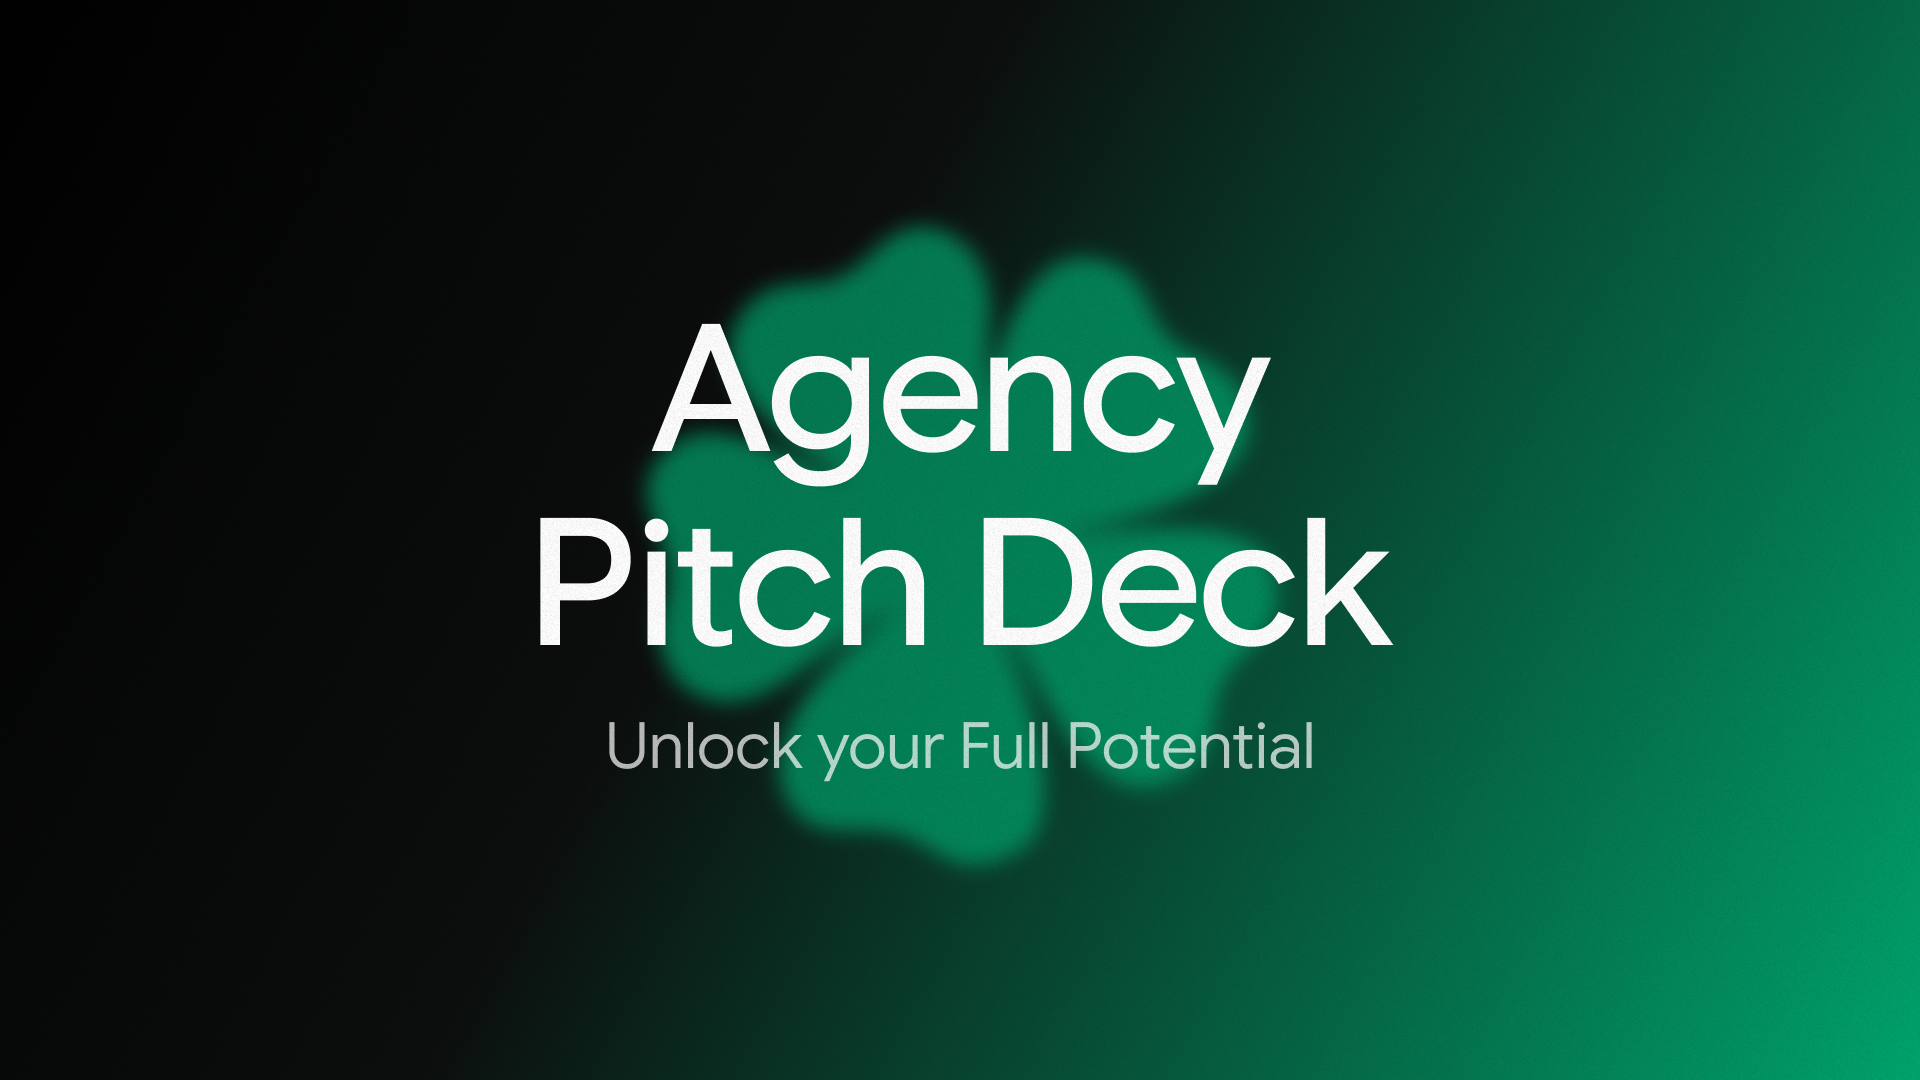
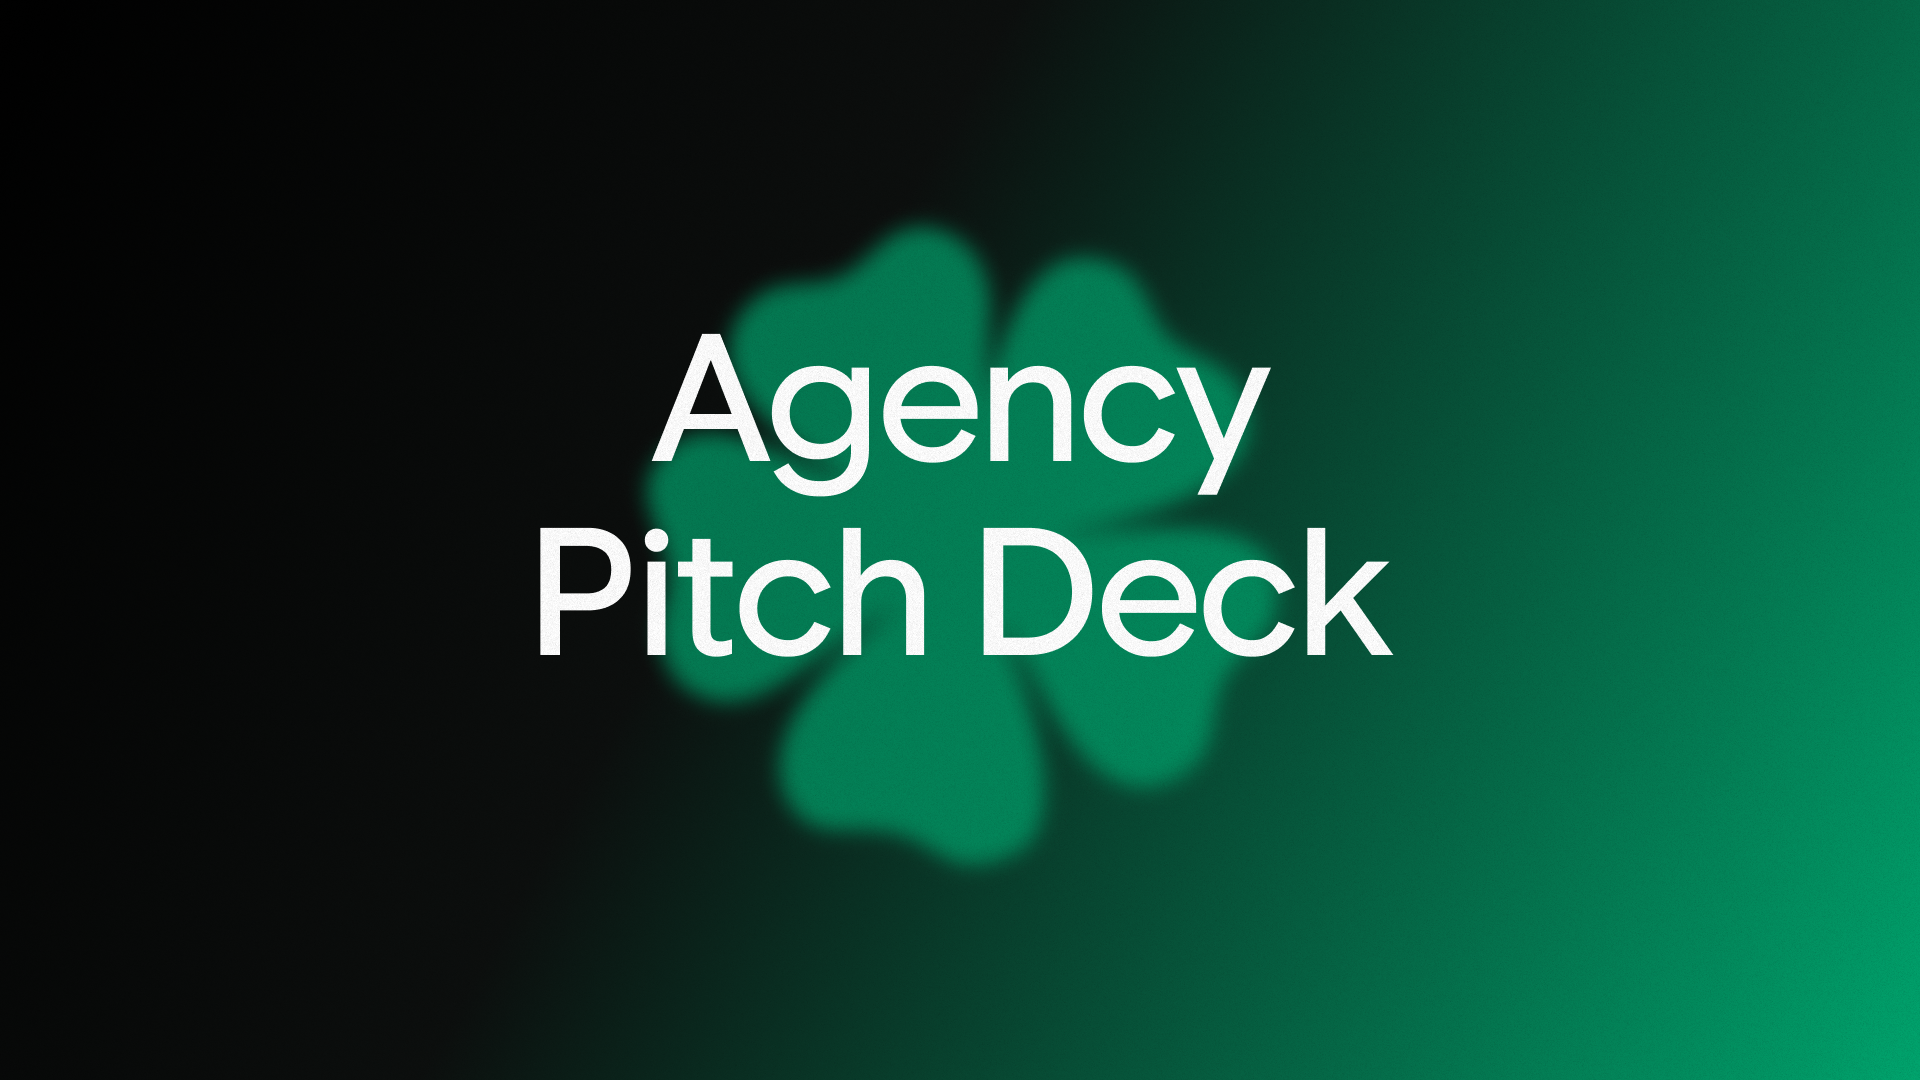
feat: refactor easter egg toast management and update footer branding

diff --git a/src/components/Background.jsx b/src/components/Background.jsx
@@ -5,11 +5,10 @@ import confetti from 'canvas-confetti';
 /**
  * Interactive Background — hex grid of leaves with Easter Egg
  */
-function LeafGrid() {
+function LeafGrid({ foundId, setFoundId }) {
   const [cols, setCols] = useState(10);
   const [rows, setRows] = useState(10);
   const luckyIds = useRef(new Set());
-  const [foundId, setFoundId] = useState(null);
   const found = foundId !== null;
   
   useEffect(() => {
@@ -59,36 +58,106 @@ function LeafGrid() {
     }
   }
 
-  // Vibrant palette for "wrong" leaves
-  const wrongColors = ['#FF2D55', '#FF9500', '#FFCC00', '#5856D6', '#AF52DE', '#FF3B30', '#32ADE6'];
+  return (
+    <div className="leaf-grid">
+      {grid.map((cell) => {
+        const isOddRow = cell.r % 2 !== 0;
+        const leftOffset = isOddRow ? 50 : 0;
+        const isTheFoundOne = found && cell.id === foundId;
+        
+        return (
+          <div
+            key={cell.id}
+            className={`leaf-cell ${isTheFoundOne ? 'is-found' : ''}`}
+            style={{
+              left: `${cell.c * 100 + leftOffset}px`,
+              top: `${cell.r * 85}px`,
+            }}
+            onMouseEnter={(e) => handleHover(e, cell.id)}
+          >
+            <div className="leaf-icon" />
+          </div>
+        );
+      })}
+    </div>
+  );
+}
+
+export default function Background() {
+  const [foundId, setFoundId] = useState(null);
+  const [showToast, setShowToast] = useState(false);
+  
+  useEffect(() => {
+    if (foundId !== null) {
+      setShowToast(true);
+      const timer = setTimeout(() => {
+        setShowToast(false);
+      }, 6000); // Fades away after 6 seconds (within the 5-8 second range)
+      return () => clearTimeout(timer);
+    }
+  }, [foundId]);
+
+  const mouseX = useMotionValue(0.5);
+  const mouseY = useMotionValue(0.5);
+
+  const springX = useSpring(mouseX, { stiffness: 22, damping: 30 });
+  const springY = useSpring(mouseY, { stiffness: 22, damping: 30 });
+
+  const orb1X = useTransform(springX, [0, 1], ['-8%', '8%']);
+  const orb1Y = useTransform(springY, [0, 1], ['-6%', '6%']);
+  const orb2X = useTransform(springX, [0, 1], ['6%', '-6%']);
+  const orb2Y = useTransform(springY, [0, 1], ['4%', '-4%']);
+
+  useEffect(() => {
+    const handleMove = (e) => {
+      mouseX.set(e.clientX / window.innerWidth);
+      mouseY.set(e.clientY / window.innerHeight);
+    };
+    window.addEventListener('mousemove', handleMove);
+    return () => window.removeEventListener('mousemove', handleMove);
+  }, [mouseX, mouseY]);
 
   return (
     <>
-      <div className="leaf-grid">
-        {grid.map((cell) => {
-          const isOddRow = cell.r % 2 !== 0;
-          const leftOffset = isOddRow ? 50 : 0;
-          const isTheFoundOne = found && cell.id === foundId;
-          
-          return (
-            <div
-              key={cell.id}
-              className={`leaf-cell ${isTheFoundOne ? 'is-found' : ''}`}
-              style={{
-                left: `${cell.c * 100 + leftOffset}px`,
-                top: `${cell.r * 85}px`,
-              }}
-              onMouseEnter={(e) => handleHover(e, cell.id)}
-            >
-              <div className="leaf-icon" />
-            </div>
-          );
-        })}
+      <div className="bg-layer" aria-hidden="true">
+        {/* ── Layer 1: Interactive Leaf Grid ─────────────── */}
+        <LeafGrid foundId={foundId} setFoundId={setFoundId} />
+
+        {/* ── Layer 3: Morphing emerald orbs ────────────────────── */}
+        <motion.div
+          className="bg-orb bg-orb-1"
+          style={{ x: orb1X, y: orb1Y }}
+          animate={{
+            borderRadius: ['60% 40% 55% 45%', '40% 60% 45% 55%', '60% 40% 55% 45%'],
+            scale: [1, 1.06, 1],
+          }}
+          transition={{ duration: 18, repeat: Infinity, ease: 'easeInOut' }}
+        />
+
+        <motion.div
+          className="bg-orb bg-orb-2"
+          style={{ x: orb2X, y: orb2Y }}
+          animate={{
+            borderRadius: ['45% 55% 40% 60%', '60% 40% 55% 45%', '45% 55% 40% 60%'],
+            scale: [1, 0.94, 1],
+          }}
+          transition={{ duration: 14, repeat: Infinity, ease: 'easeInOut', delay: 3 }}
+        />
+
+        {/* ── Layer 4: SVG fractal grain ────────────────────────── */}
+        <svg className="bg-grain" xmlns="http://www.w3.org/2000/svg">
+          <filter id="grain-filter">
+            <feTurbulence type="fractalNoise" baseFrequency="0.65" numOctaves="3" stitchTiles="stitch" />
+            <feColorMatrix type="saturate" values="0" />
+            <feBlend in="SourceGraphic" mode="multiply" />
+          </filter>
+          <rect width="100%" height="100%" filter="url(#grain-filter)" />
+        </svg>
       </div>
 
-      {/* Global Toast for finding the Clover */}
+      {/* Global Toast for finding the Clover (outside .bg-layer for correct z-indexing) */}
       <AnimatePresence>
-        {found && (
+        {showToast && (
           <motion.div
             className="easter-egg-toast"
             initial={{ opacity: 0, y: 40, x: '-50%', scale: 0.9 }}
@@ -104,64 +173,3 @@ function LeafGrid() {
   );
 }
 
-export default function Background() {
-  const mouseX = useMotionValue(0.5);
-  const mouseY = useMotionValue(0.5);
-
-  const springX = useSpring(mouseX, { stiffness: 22, damping: 30 });
-  const springY = useSpring(mouseY, { stiffness: 22, damping: 30 });
-
-  const orb1X = useTransform(springX, [0, 1], ['-8%', '8%']);
-  const orb1Y = useTransform(springY, [0, 1], ['-6%', '6%']);
-  const orb2X = useTransform(springX, [0, 1], ['6%', '-6%']);
-  const orb2Y = useTransform(springY, [0, 1], ['4%', '-4%']);
-  const orb3X = useTransform(springX, [0, 1], ['-4%', '4%']);
-  const orb3Y = useTransform(springY, [0, 1], ['6%', '-6%']);
-
-  useEffect(() => {
-    const handleMove = (e) => {
-      mouseX.set(e.clientX / window.innerWidth);
-      mouseY.set(e.clientY / window.innerHeight);
-    };
-    window.addEventListener('mousemove', handleMove);
-    return () => window.removeEventListener('mousemove', handleMove);
-  }, [mouseX, mouseY]);
-
-  return (
-    <div className="bg-layer" aria-hidden="true">
-      {/* ── Layer 1: Interactive Leaf Grid ─────────────── */}
-      <LeafGrid />
-
-      {/* ── Layer 3: Morphing emerald orbs ────────────────────── */}
-      <motion.div
-        className="bg-orb bg-orb-1"
-        style={{ x: orb1X, y: orb1Y }}
-        animate={{
-          borderRadius: ['60% 40% 55% 45%', '40% 60% 45% 55%', '60% 40% 55% 45%'],
-          scale: [1, 1.06, 1],
-        }}
-        transition={{ duration: 18, repeat: Infinity, ease: 'easeInOut' }}
-      />
-
-      <motion.div
-        className="bg-orb bg-orb-2"
-        style={{ x: orb2X, y: orb2Y }}
-        animate={{
-          borderRadius: ['45% 55% 40% 60%', '60% 40% 55% 45%', '45% 55% 40% 60%'],
-          scale: [1, 0.94, 1],
-        }}
-        transition={{ duration: 14, repeat: Infinity, ease: 'easeInOut', delay: 3 }}
-      />
-
-      {/* ── Layer 4: SVG fractal grain ────────────────────────── */}
-      <svg className="bg-grain" xmlns="http://www.w3.org/2000/svg">
-        <filter id="grain-filter">
-          <feTurbulence type="fractalNoise" baseFrequency="0.65" numOctaves="3" stitchTiles="stitch" />
-          <feColorMatrix type="saturate" values="0" />
-          <feBlend in="SourceGraphic" mode="multiply" />
-        </filter>
-        <rect width="100%" height="100%" filter="url(#grain-filter)" />
-      </svg>
-    </div>
-  );
-}

diff --git a/src/index.css b/src/index.css
@@ -820,18 +820,16 @@ main {
   gap: 7px;
 }
 
-.footer-dot {
-  width: 4px;
-  height: 4px;
-  border-radius: 50%;
-  background: var(--primary);
+.footer-heart {
   display: inline-block;
-  animation: dotPulse 2.5s ease-in-out infinite;
+  font-size: 0.85rem;
+  line-height: 1;
+  animation: heartPulse 2.5s ease-in-out infinite;
 }
 
-@keyframes dotPulse {
-  0%, 100% { transform: scale(1);    opacity: 0.5; }
-  50%       { transform: scale(1.6); opacity: 1;   }
+@keyframes heartPulse {
+  0%, 100% { transform: scale(1); opacity: 0.85; }
+  50%       { transform: scale(1.25); opacity: 1; }
 }
 
 /* ============================================================

diff --git a/src/components/Footer.jsx b/src/components/Footer.jsx
@@ -13,9 +13,9 @@ export default function Footer() {
       aria-label="Footer"
     >
       <p className="footer-text">
-        <span className="footer-dot" aria-hidden="true" />
-        crafted with Link-er &nbsp;·&nbsp; {year}
+        made by Clover Studio with <span className="footer-heart" aria-label="love">💚</span> &nbsp;·&nbsp; {year}
       </p>
     </motion.footer>
   );
 }
+